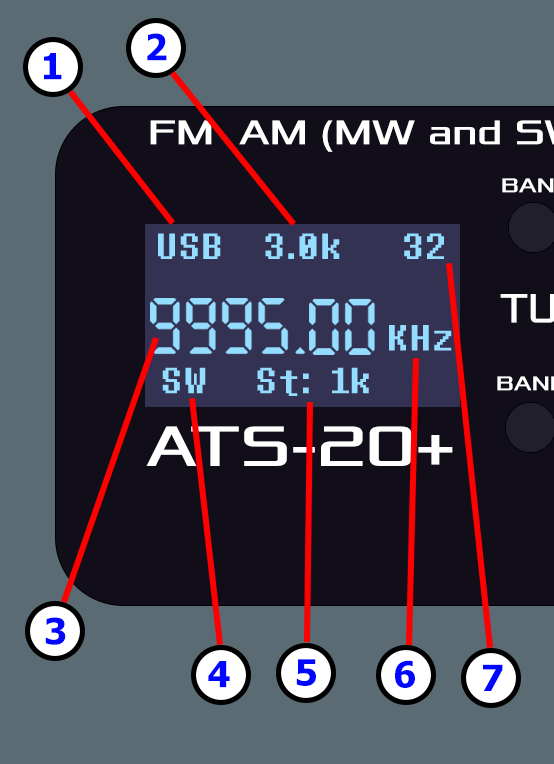
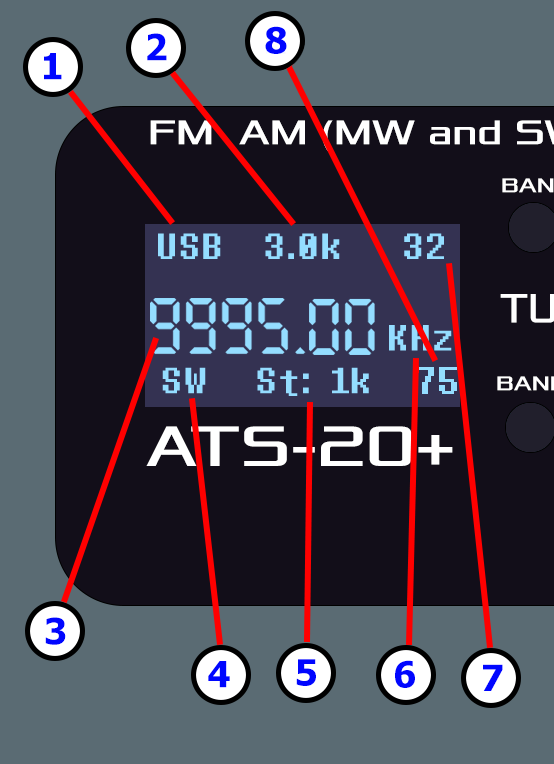
v1.03 Added battery charge status feature, encoder button in SSB is a step switch

diff --git a/ATS_EX/globals.h b/ATS_EX/globals.h
@@ -4,6 +4,7 @@ const uint8_t g_app_id = 45;
 const int g_eeprom_address = 0;
 long g_storeTime = millis();
 
+bool g_voltagePinConnnected = false;
 bool g_ssbLoaded = false;
 bool g_fmStereo = true;
 
@@ -180,7 +181,7 @@ const char _literal_EmptyLine[14] = "             ";
 
 Band g_bandList[] =
 {
-    {LW_BAND_TYPE, 149, 520, 300, 0, 4, "LW"},
+    {LW_BAND_TYPE, 153, 520, 300, 0, 4, "LW"},
     {MW_BAND_TYPE, 520, 1710, 1476, 3, 4, "MW"},
     {SW_BAND_TYPE, SW_LIMIT_LOW, 3500, 1900, 0, 4, _literal_SW},     // 160 Meter
     {SW_BAND_TYPE, 3500, 4500, 3700, 0, 5, _literal_SW},     // 80 Meter

diff --git a/ATS_EX/defs.h b/ATS_EX/defs.h
@@ -20,6 +20,9 @@
 #define RST_PIN -1
 #define RESET_PIN 12
 
+//Battery charge monitoring analog pin (Voltage divider 10-10 KOhm directly from battery)
+#define BATTERY_VOLTAGE_PIN A2
+
 // Encoder
 #define ENCODER_PIN_A 2
 #define ENCODER_PIN_B 3
@@ -49,5 +52,6 @@
 #define CW  4
 
 // Band settings
-#define SW_LIMIT_LOW    1700
-#define SW_LIMIT_HIGH   30000
+#define SW_LIMIT_LOW		1700
+#define SW_LIMIT_HIGH		30000
+#define LW_LIMIT_LOW_SSB	(g_bandList[0].minimumFreq - 16)

diff --git a/rus/README.md b/rus/README.md
@@ -4,9 +4,9 @@
 Прошивка ATS_EX создана мной, **Goshante**, основана на наработках прошивки **PU2CLR** и вдохновлена прошивкой от **swling.ru** с закрытым исходным кодом.
 
 
-**Последняя версия:** v1.02 (03.03.2024)
+**Последняя версия:** v1.03 (03.03.2024)
 
-**Ссылка на скачивание готового .hex файла прошивки:** [>>> Нажмите здесь <<<](https://github.com/goshante/ats20_ats_ex/releases/download/v1.02/ATS_EX_v1.02.hex)
+**Ссылка на скачивание готового .hex файла прошивки:** [>>> Нажмите здесь <<<](https://github.com/goshante/ats20_ats_ex/releases/download/v1.03/ATS_EX_v1.03.hex)
 
 
 <p align="center">
@@ -29,7 +29,7 @@
  - Добавлена страница настроек. Вы можете настроить **Управление усилением и ATT**, **Мягкое выключение звука**, **Автоматическое управление громкостью** (AVC), Включить или Выключить **AVC для режима SSB**, **Деэмфазис** для режима FM и включить или выключить **режим синхронизации SSB**.
  - Регулируемая **яркость экрана**.
  - Добавлена **кнопка выключения звука** и **кнопка включения/выключения дисплея**.
- - Добавлено **отображение состояния заряда батареи** (Требуется физическая модификация: Припаять **вывод VCC** через делитель напряжения к выводу **A2**, и вообще эта функция еще в разработке но скоро будет)
+ - Добавлено **отображение состояния заряда батареи** (Требуется небольшой мод: Сделать **делитель напряжения** из двух резисторов по 10 КОм и припаять его среднюю точку к пину **A2**)
  - Добавлен **S-метр**
  - **Контроллер Atm328p теперь работает на полной частоте**. Управление должно быть более отзывчивым. (Не знаю, как это влияет на расход батареи.)
  - Рефакторинг кода, оптимизации
@@ -52,7 +52,7 @@
  7. **BW** : Короткое нажатие для входа в режим **регулировки ширины полосы пропускания**. Установите шаг с помощью **Вращения Энкодера** и подтвердите с помощью **Кнопки Энкодера** или повторным нажатием кнопки **BW**. Зажмите, чтобы показать/скрыть шкалу S-метра, отображающую уровень сигнала.
  8. **MODE** : Короткое нажатие для **переключения между модуляциями**. На диапазоне **FM** единственная доступная модуляция - **WFM** (FM с широкой полосой), и кнопка **MODE** отключена. На всех остальных диапазонах доступны следующие модуляции: **AM/USB/LSB/CW**. Во всех модуляциях(Особенно в SSB) улучшенная настройка частоты без прерывания на каждом шаге.
  9. **Вращение Энкодера** : Настройка **Частоты** или **навигация по настройкам**.
- 10. **Кнопка Энкодера** : Короткое нажатие для **поиска станций** или **подтверждения выбора настройки**. Также сбрасывает память **EEPROM** при удержании этой кнопки при запуске.
+ 10. **Кнопка Энкодера** : В **не-SSB** режиме - Короткое нажатие для **поиска станций** или **подтверждения выбора настройки**. Также сбрасывает память **EEPROM** при удержании этой кнопки при запуске. В SSB режиме делает то же самое, что и короткое нажатие кнопки **STEP**.
 ### Настройки
 Навигация в настройках с помощью **Вращения Энкодера**, подтверждение выбора с помощью **Кнопки Энкодера**, изменение значения с помощью **Вращения Энкодера** и сохранение его с помощью снова той же **Кнопки Энкодера**. Закрыть настройки можно кнопкой **BAND-**. Переключаться между **страницами настроек** можно при помощи кнопки **BAND+**.
 
@@ -97,3 +97,9 @@
 **6**. **Единицы частоты**. Единицы измерения всегда отображаются, кроме случаев, когда десятичная часть частоты в **SSB** режиме длиной в **5 цифр**.
 
 **7**. **Громкость**. Это уровень громкости приемника. Может быть значением между **0** и **63**. Когда включен беззвучный режим (Mute), вместо уровня громкости будет отображаться буква **M**.
+
+**8**.  **Уровень заряда батареи** in percents. Требует подключения пайкой **делителя напряжения** к пину **A2**. Не отображается если не подключено.
+
+# Как сделать так чтоб отображался уровень заряда батареи?
+
+Вам потребуется паяльник и два резистора по **10 КОм** каждый. Припаяйте один резистор к минусу(земле), второй напрямую к плюсу литиевой батареи. И спаяйте их вместе, это будет их средняя точка. Её нужно припаять к пину **A2** на контроллере. Таким образом на него будет подаваться половина напряжения батареи. Сделав такую простую модификацию **ATX_EX** прошивка автоматически определит подключенный пин напряжения батареи и начнет показывать заряд.

diff --git a/README.md b/README.md
@@ -6,9 +6,9 @@ This is advanced firmware for **ATS-20** that is working on **Arduino Nano** and
 ATS_EX is created by **Goshante**, based on **PU2CLR** firmware and inspired by **swling.ru** firmware with closed source.
 
 
-**Latest version:** v1.02 (03.03.2024)
+**Latest version:** v1.03 (03.03.2024)
 
-**Download binary .hex link:** [>>> Click here <<<](https://github.com/goshante/ats20_ats_ex/releases/download/v1.02/ATS_EX_v1.02.hex)
+**Download binary .hex link:** [>>> Click here <<<](https://github.com/goshante/ats20_ats_ex/releases/download/v1.03/ATS_EX_v1.03.hex)
 
 
 <p align="center">
@@ -31,7 +31,7 @@ ATS_EX is created by **Goshante**, based on **PU2CLR** firmware and inspired by 
  - Added settings page. You can configure **Gain Control and ATT**, **Soft Mute**, **Automatic Volume Control** (AVC), On or Off **AVC for SSB mode**,  **DeEmphasis** for FM mode and enable or disable **SSB Sync** mode.
  - Adjustable **screen brightness**.
  - Added **Mute button** and **Display on/off button**.
- - Added **Battery charge status** (Requires physical mod: Solder **VCC pin** through voltage divider to **A2** pin)
+ - Added **Battery charge status** (Requires simple physical mod: Make **voltage divider** from two 10 KOhm resistors and solder it's middle output to **A2** pin)
  - Added **S-Meter**
  - **Atm328p controller is now running on it's full clock**. Controls have to be more responsive. (Don't know how it impacts on battery drain.)
  - Code refactoring, optimizations
@@ -54,7 +54,7 @@ Or you can build it yourself. I use Visual Studio 2022 with VSMicro extension th
  7. **BW** : Short press to enter **Bandwidth regulation mode**. Set step with **Encoder Rotation** and confirm with **Encoder Button** or press **BW** again. Long press to show/hide **S-Meter**.
  8. **MODE** : Short press to **switch between modulations**. On **FM** band **WFM** is the only available modulation and **MODE** button is disabled. On all other bands next modulations are available: **AM/USB/LSB/CW**. In all modulations *(except AM and WFM (FM))* you have improved frequency tuning without interrupting every step.
  9. **Encoder Rotation** : Frequency **Tune** or settings **navigation**.
- 10. **Encoder Button** :  Short press to **scan** for stations or **confirm** your selection. Resets **EEPROM** memory when held on startup.
+ 10. **Encoder Button** :  In **non-SSB mode** - Short press to **scan** for stations or **confirm** your selection. Resets **EEPROM** memory when held on startup. In **SSB** mode it works as **STEP** short press button.
 ### Settings
 Navigate in settings with **Encoder Rotation**, confirm selection with **Encoder Button**, change value with **Encoder Rotation** and save it with **Encoder Button**. Close settings with **BAND-** button. Navigate between **settings pages** with **BAND+** button.
 
@@ -97,3 +97,9 @@ Navigate in settings with **Encoder Rotation**, confirm selection with **Encoder
 **6**.  **Frequency units**. Units are always displayed, except when decimal part of frequency in **SSB** is **5 digits long**.
 
 **7**.  **Volume**. This is sound volume of receiver. Could be value between **0** and **63**. When mute is enabled it displays letter **M** instead of volume.
+
+**8**.  **Battery charge level** in percents. Requires **voltage divider** soldered to **A2** pin. Not displayed if not connected.
+
+# How to make the battery charge level display?
+
+You will need a soldering iron and two resistors of **10kΩ** each. Solder one resistor to the negative (ground) and the other directly to the positive of the lithium battery. Then solder their meeting point together; this will be their midpoint. You need to solder it to pin **A2** on the controller. Thus, half of the battery voltage will be applied to it. By making such a simple modification, the **ATX_EX** firmware will automatically detect the connected battery voltage pin and start displaying the charge.
